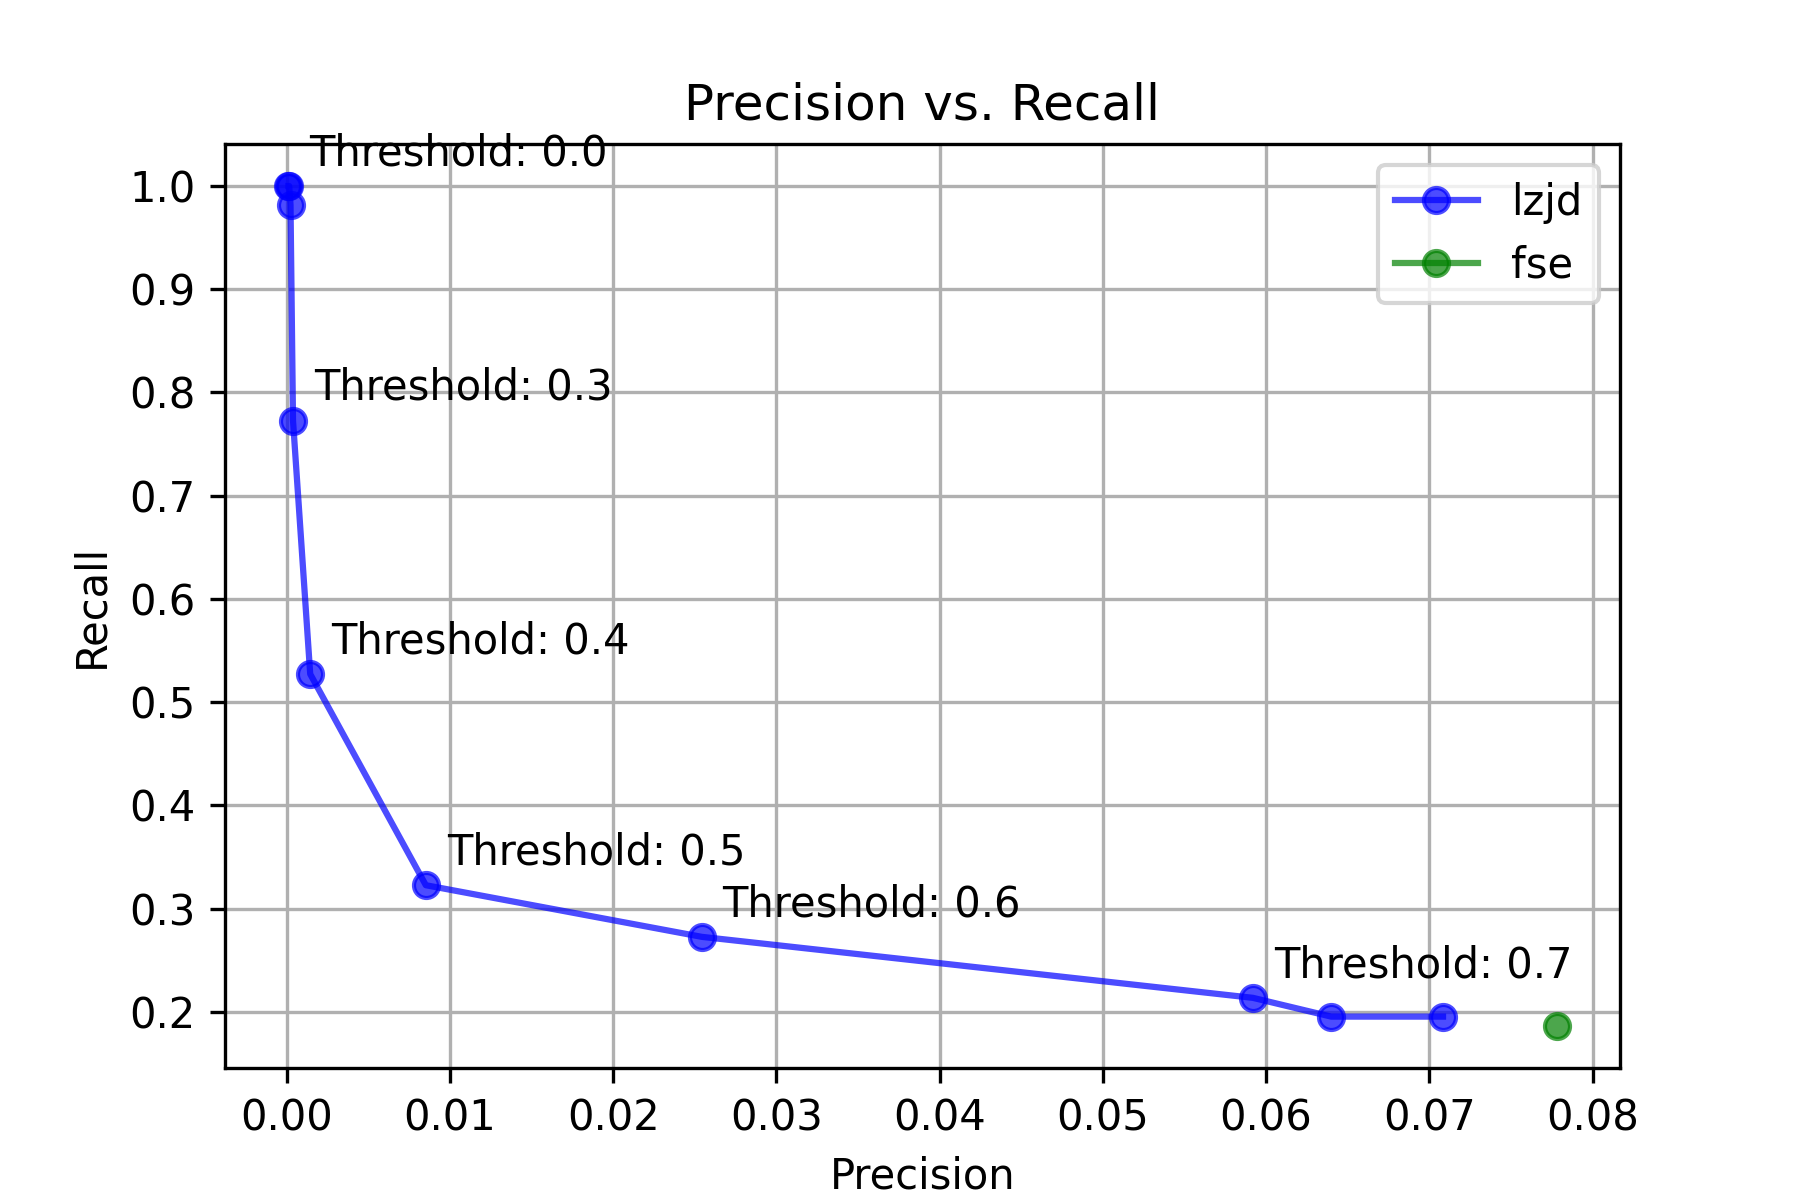
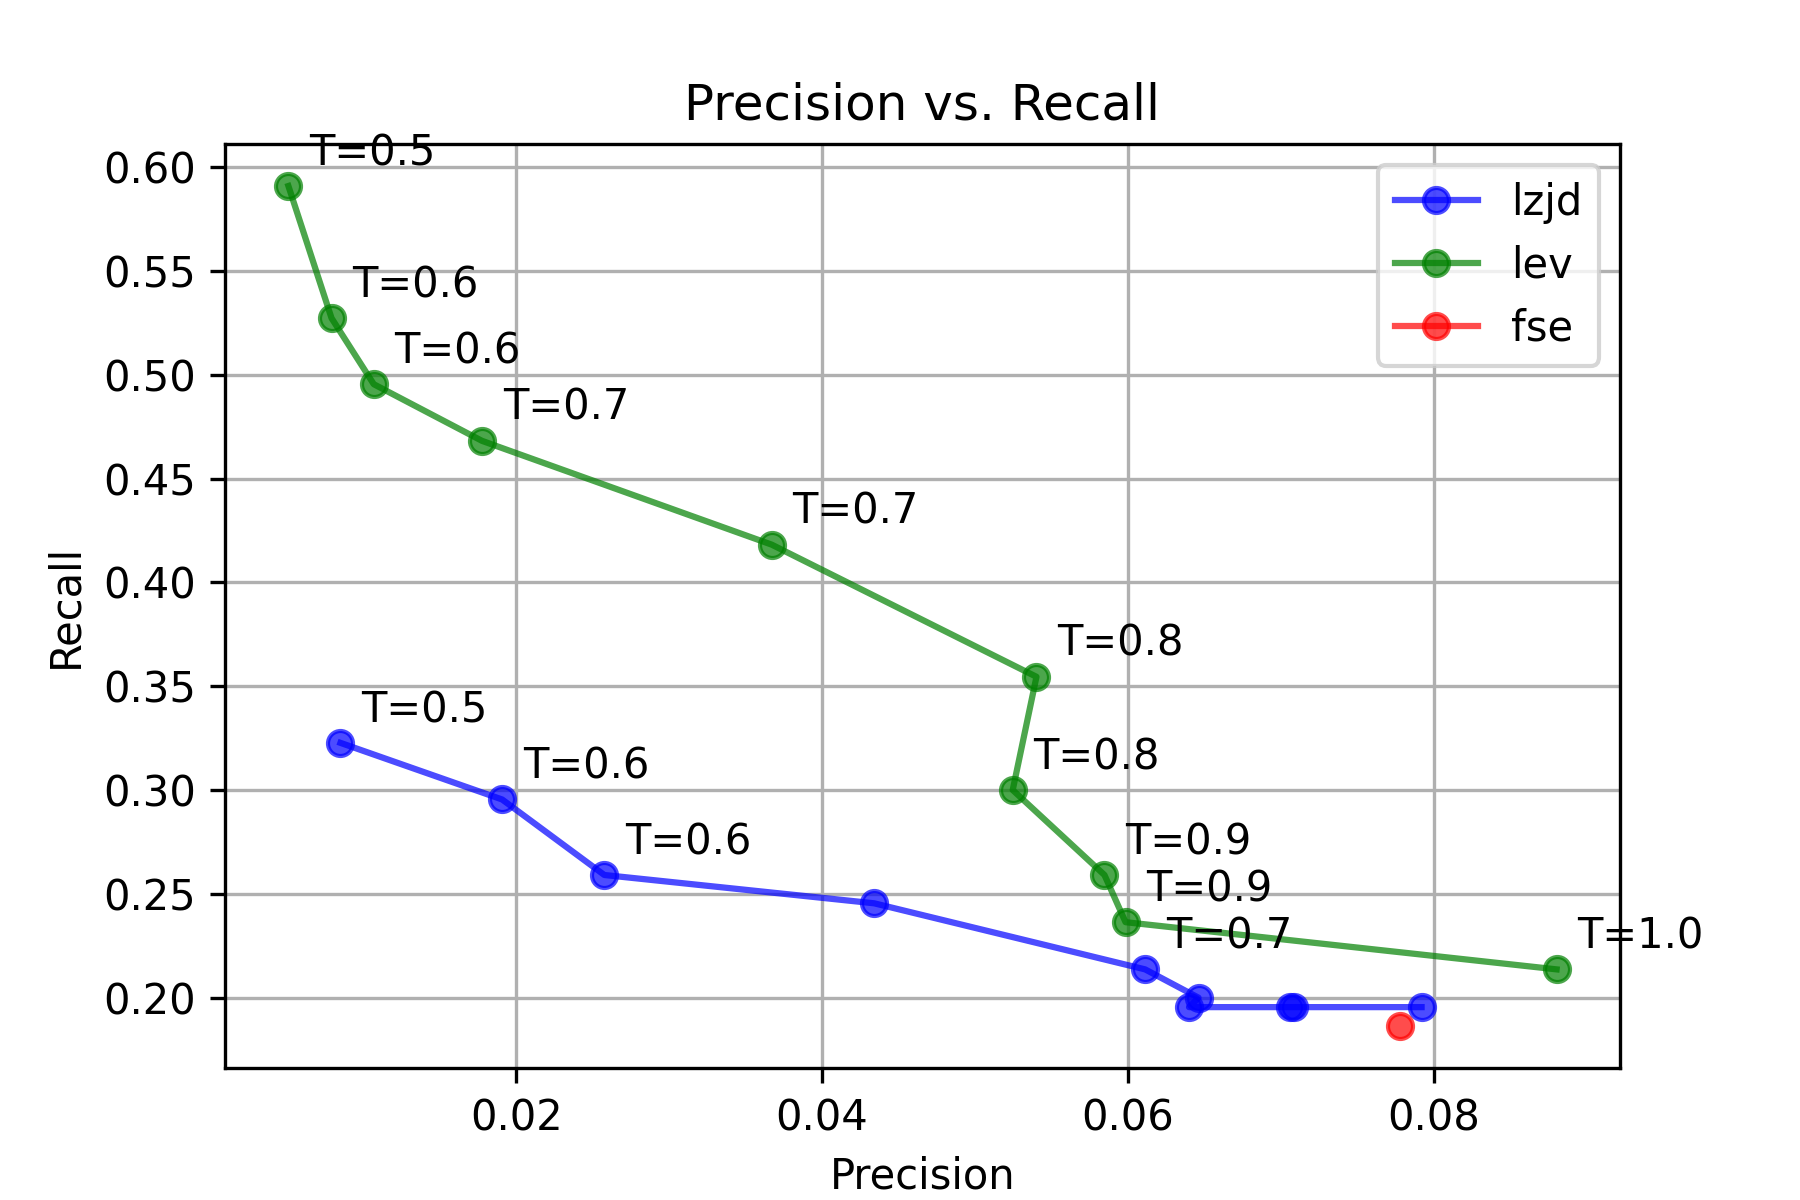
exp4

diff --git a/lzjd-script.py b/lzjd-script.py
@@ -281,7 +281,7 @@ for i, technique in enumerate(techniques):
     for j, txt in enumerate(techniques[technique]['threshold']):
         new = (techniques[technique]['precision'][j], techniques[technique]['recall'][j])
         if abs(new[0] - last[0]) > THRESHOLD[0] or abs(new[1] - last[1]) > THRESHOLD[1]:
-            plt.annotate(f'T={txt:.1f}', (techniques[technique]['precision'][j], techniques[technique]['recall'][j]), textcoords='offset points', xytext=(5,5))
+            plt.annotate(f'T={txt:.2f}', (techniques[technique]['precision'][j], techniques[technique]['recall'][j]), textcoords='offset points', xytext=(5,5))
             last = new
 
 
